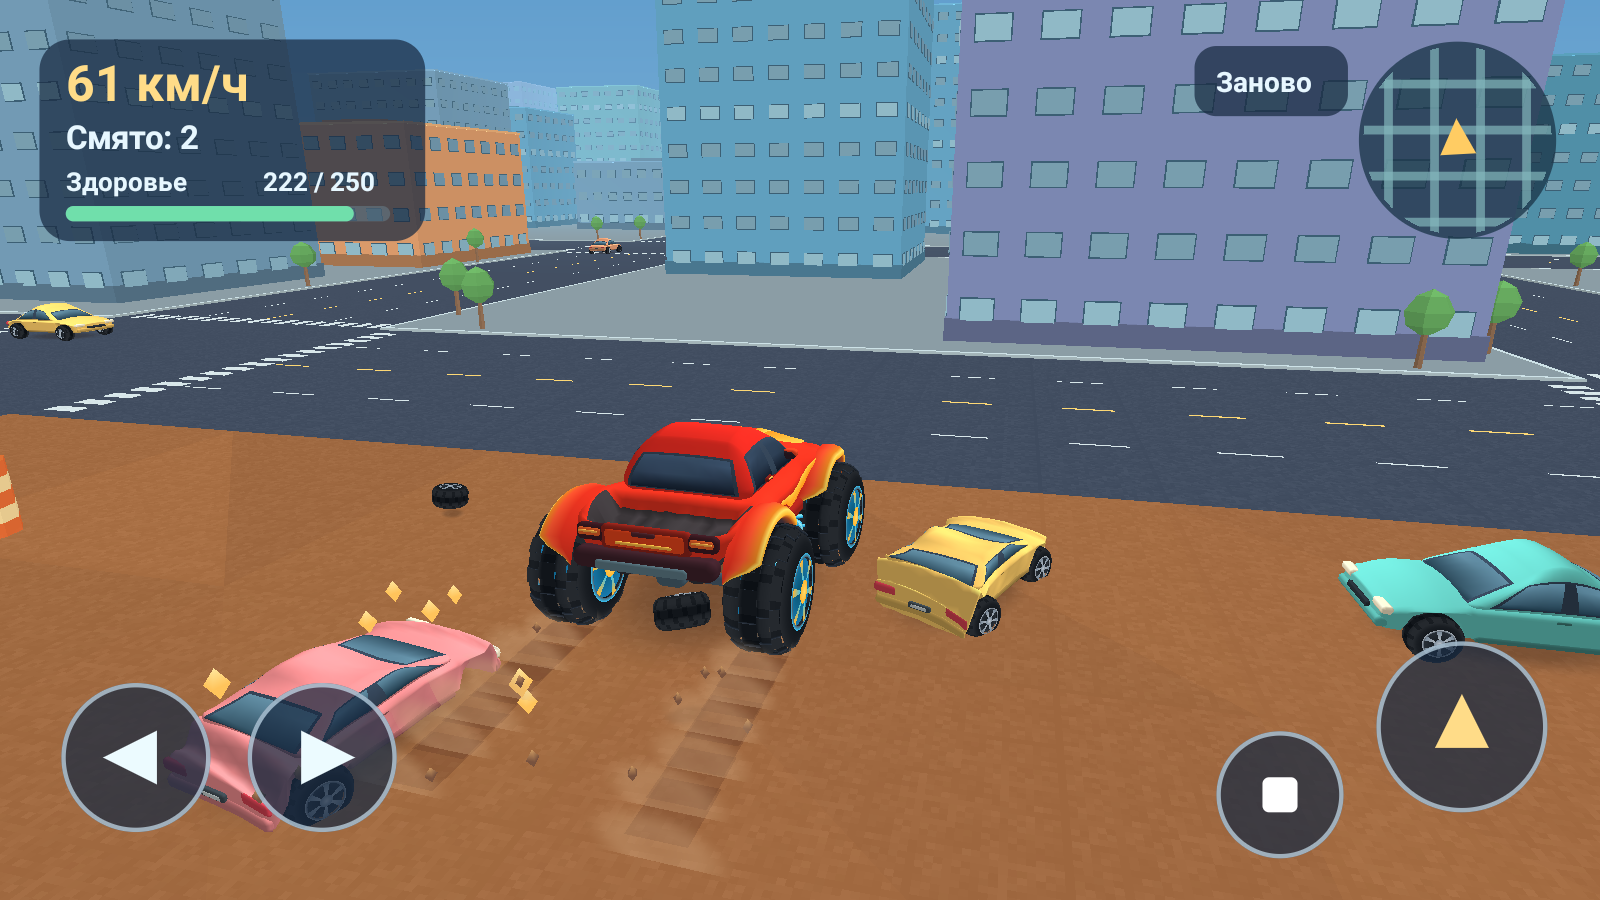
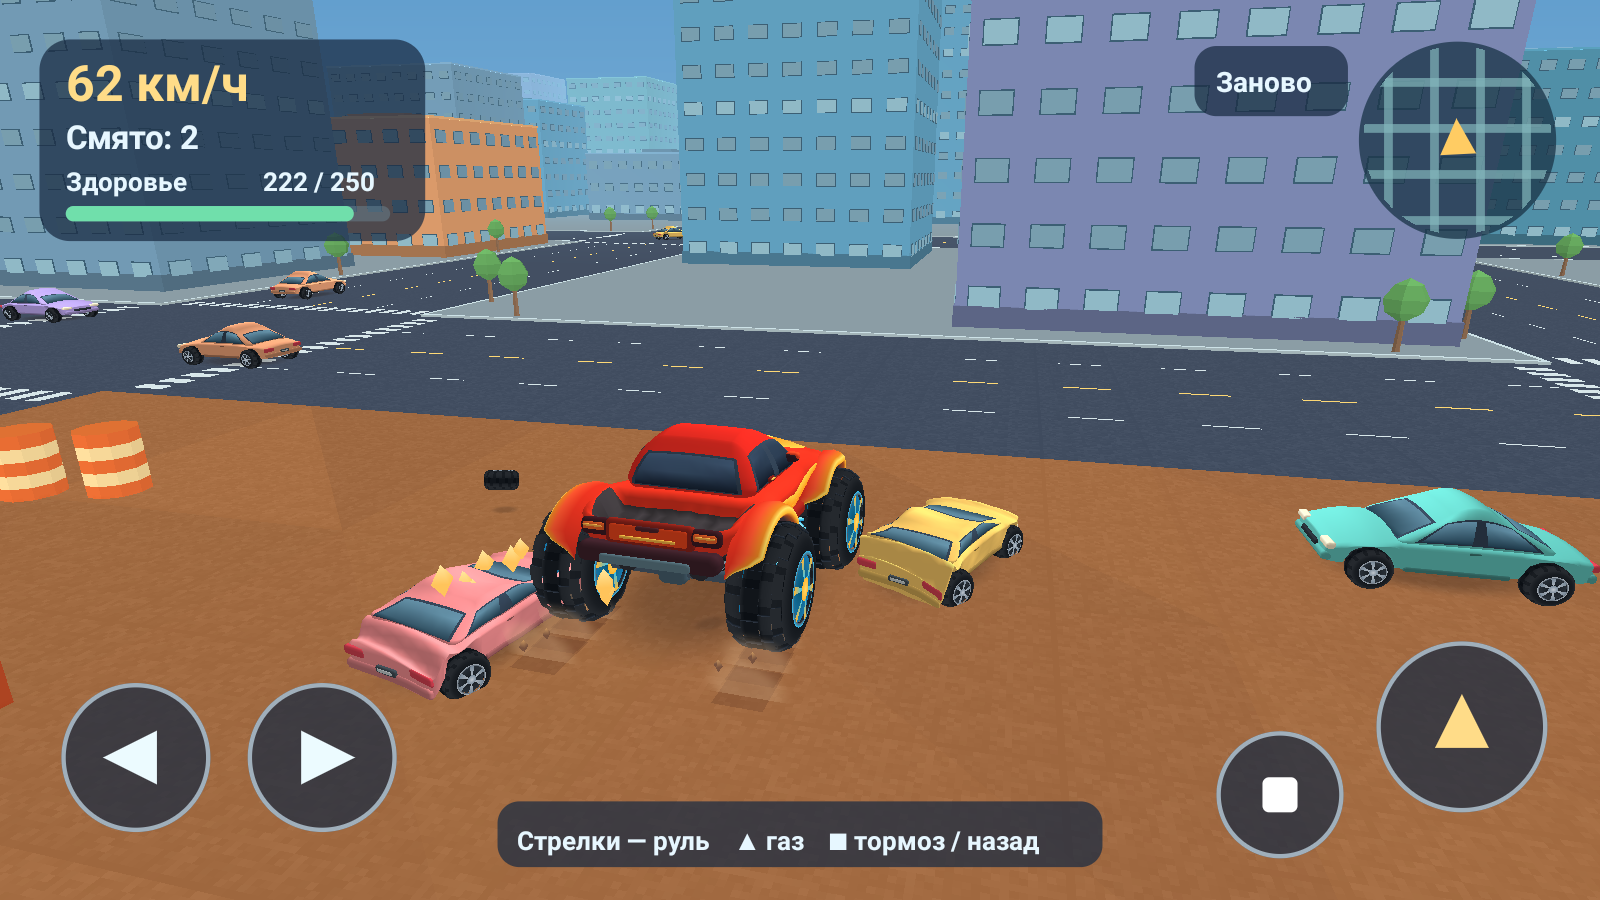
Refine truck paint and refresh gameplay screenshots

diff --git a/app/src/main/java/com/levgame/monster/Geometry.java b/app/src/main/java/com/levgame/monster/Geometry.java
@@ -393,33 +393,48 @@ final class Geometry {
 
     private static void paintRibbon(Builder mesh, VehiclePanel surface, int axis, int side,
                                     float[][] edges, int base, int highlight) {
-        float[][] previous = new float[2][3], current = new float[2][3];
-        float[] param = new float[3];
-        param[axis] = side;
-        int steps = (edges.length - 1) * 6;
+        int across = 6, perSegment = 10;
+        float[][] previous = new float[across + 1][3], current = new float[across + 1][3];
+        float[] boundaries = new float[4];
+        int[] colors = new int[across + 1];
+        for (int i = 0; i <= across; i++) colors[i] = mixPaint(base, highlight, i / (float) across);
+        int steps = (edges.length - 1) * perSegment;
         for (int step = 0; step <= steps; step++) {
-            int segment = Math.min(edges.length - 2, step / 6);
-            float t = (step - segment * 6) / 6f;
+            int segment = Math.min(edges.length - 2, step / perSegment);
+            float t = (step - segment * perSegment) / (float) perSegment;
             float[] a = edges[Math.max(0, segment - 1)], b = edges[segment];
             float[] c = edges[segment + 1], d = edges[Math.min(edges.length - 1, segment + 2)];
-            for (int edge = 0; edge < 2; edge++) {
-                for (int coordinate = 0; coordinate < 2; coordinate++) {
-                    int i = edge * 2 + coordinate;
-                    float incoming = .5f * (c[i] - a[i]);
-                    float outgoing = .5f * (d[i] - b[i]);
-                    param[(axis + 1 + coordinate) % 3] = b[i] + (c[i] - b[i]) * smooth(t)
-                            + t * (1 - t) * ((1 - t) * incoming - t * outgoing);
-                }
-                surface.point(param, current[edge], axis, side == 0 ? -.021f : .021f);
+            for (int i = 0; i < boundaries.length; i++) {
+                float incoming = .5f * (c[i] - a[i]);
+                float outgoing = .5f * (d[i] - b[i]);
+                boundaries[i] = b[i] + (c[i] - b[i]) * smooth(t)
+                        + t * (1 - t) * ((1 - t) * incoming - t * outgoing);
+            }
+            for (int i = 0; i <= across; i++) {
+                float f = i / (float) across;
+                surface.paintPoint(axis, side, boundaries[0] + f * (boundaries[2] - boundaries[0]),
+                        boundaries[1] + f * (boundaries[3] - boundaries[1]), current[i]);
             }
             if (step > 0) {
-                mesh.triangle(previous[0], current[0], current[1], base, base, highlight);
-                mesh.triangle(previous[0], current[1], previous[1], base, highlight, highlight);
+                for (int i = 0; i < across; i++) {
+                    mesh.triangle(previous[i], current[i], current[i + 1], colors[i], colors[i], colors[i + 1]);
+                    mesh.triangle(previous[i], current[i + 1], previous[i + 1],
+                            colors[i], colors[i + 1], colors[i + 1]);
+                }
             }
             float[][] swap = previous;
             previous = current;
             current = swap;
         }
+    }
+
+    private static int mixPaint(int base, int highlight, float fraction) {
+        int color = 0;
+        for (int shift = 0; shift <= 16; shift += 8) {
+            int start = (base >> shift) & 255, end = (highlight >> shift) & 255;
+            color |= Math.round(start + (end - start) * fraction) << shift;
+        }
+        return color;
     }
 
     private static void truckChassis(Builder mesh, Deformation shape) {
@@ -633,6 +648,7 @@ final class Geometry {
         private final int paint;
         private final float[] origin, span, bevel, border;
         private final float[][] grid = new float[3][];
+        private final float[][][] paintFaces;
 
         VehiclePanel(Deformation shape, Panel kind, int paint, float[] origin, float[] span,
                      float[] bevel) {
@@ -642,6 +658,7 @@ final class Geometry {
             this.origin = origin;
             this.span = span;
             this.bevel = bevel;
+            paintFaces = kind == Panel.BODY && shape.truck ? new float[4][][] : null;
             border = new float[3];
             for (int axis = 0; axis < 3; axis++) {
                 bevel[axis] = Math.min(bevel[axis], span[axis] * .47f);
@@ -736,6 +753,7 @@ final class Geometry {
                     }
                 }
             }
+            if (paintFaces != null && axis < 2) paintFaces[axis * 2 + side] = points;
             for (int i = 0; i + 1 < u.length; i++) {
                 for (int j = 0; j + 1 < v.length; j++) {
                     int a = i * v.length + j, b = a + v.length, c = b + 1, d = a + 1;
@@ -756,6 +774,26 @@ final class Geometry {
                     }
                 }
             }
+        }
+
+        void paintPoint(int axis, int side, float uAt, float vAt, float[] out) {
+            // Follow the actual deformed triangles, including the creases across the hood.
+            float[] u = grid[(axis + 1) % 3], v = grid[(axis + 2) % 3];
+            int i = gridCell(u, uAt), j = gridCell(v, vAt);
+            float s = (uAt - u[i]) / (u[i + 1] - u[i]);
+            float t = (vAt - v[j]) / (v[j + 1] - v[j]);
+            float[][] points = paintFaces[axis * 2 + side];
+            int index = i * v.length + j;
+            float[] a = points[index], c = points[index + v.length + 1];
+            float[] b = points[index + (s >= t ? v.length : 1)];
+            float low = Math.min(s, t), high = Math.max(s, t);
+            for (int k = 0; k < 3; k++) out[k] = a[k] * (1 - high) + b[k] * (high - low) + c[k] * low;
+            out[axis] += side == 0 ? -.014f : .014f;
+        }
+
+        private static int gridCell(float[] grid, float at) {
+            int index = Arrays.binarySearch(grid, at);
+            return index >= 0 ? Math.min(index, grid.length - 2) : Math.max(0, -index - 2);
         }
 
         private int material(int axis, float[] param) {
@@ -802,10 +840,6 @@ final class Geometry {
         }
 
         private void point(float[] param, float[] out) {
-            point(param, out, -1, 0);
-        }
-
-        private void point(float[] param, float[] out, int offsetAxis, float offset) {
             // Project the corner of the parametric box onto an ellipsoidal fillet.
             float lengthSquared = 0;
             for (int k = 0; k < 3; k++) {
@@ -859,8 +893,7 @@ final class Geometry {
                 z += (shape.truck ? .14f : .105f) * (2 * along - 1)
                         * (1 - across * across) * ridge(height - .47f, .53f);
             }
-            shape.apply(x + (offsetAxis == 0 ? offset : 0),
-                    y + (offsetAxis == 1 ? offset : 0), z, out);
+            shape.apply(x, y, z, out);
         }
     }
 
